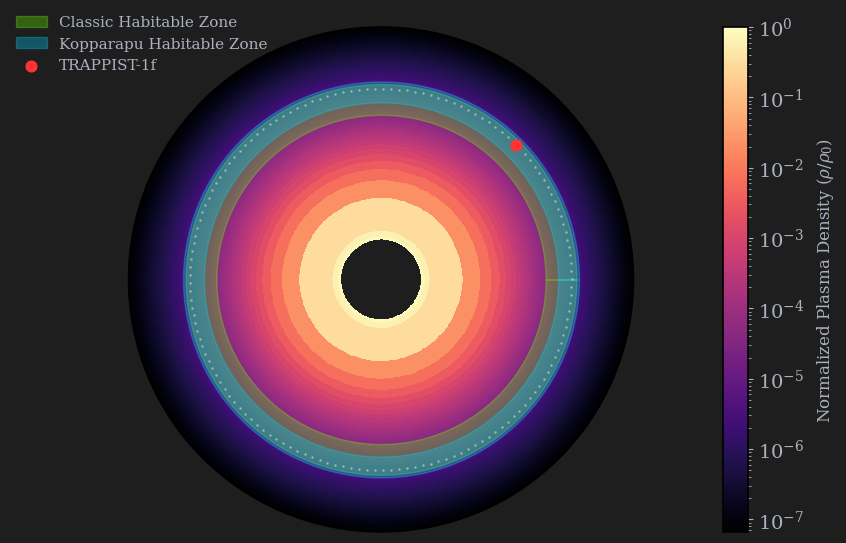
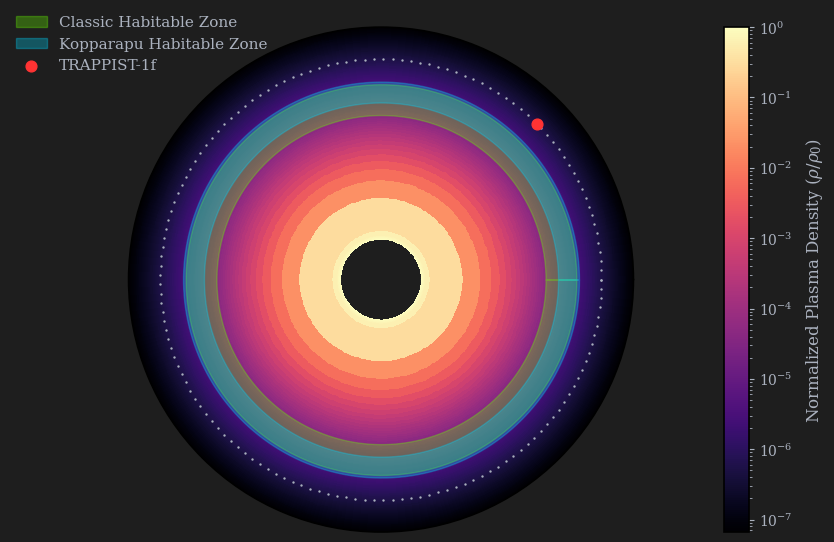
Remoção de mudança de aba automática ao rodar exoplaneta

diff --git a/interface/main_gui.py b/interface/main_gui.py
@@ -349,7 +349,6 @@ class AppWindow(ctk.CTk):
             )
             self.exibir_grafico(figura_radar, self.tab_zh)
             self.exibir_grafico(figura_mag, self.tab_magnetospheric)
-            self.painel_graficos.set("Habitable Zone")
         except Exception as e:
             self.set_status(f"Error drawing exoplanet radar: {e}", "#E06C75")
 
@@ -491,7 +490,7 @@ class AppWindow(ctk.CTk):
         parametros_more = self.app_state.parameters_more_options()
 
         parametros_completos = {**parametros_fisica, **parametros_plot}
-        
+
         self.limpar_aba_grafico(self.tab_zh)
         self.limpar_aba_grafico(self.tab_magnetospheric)
 